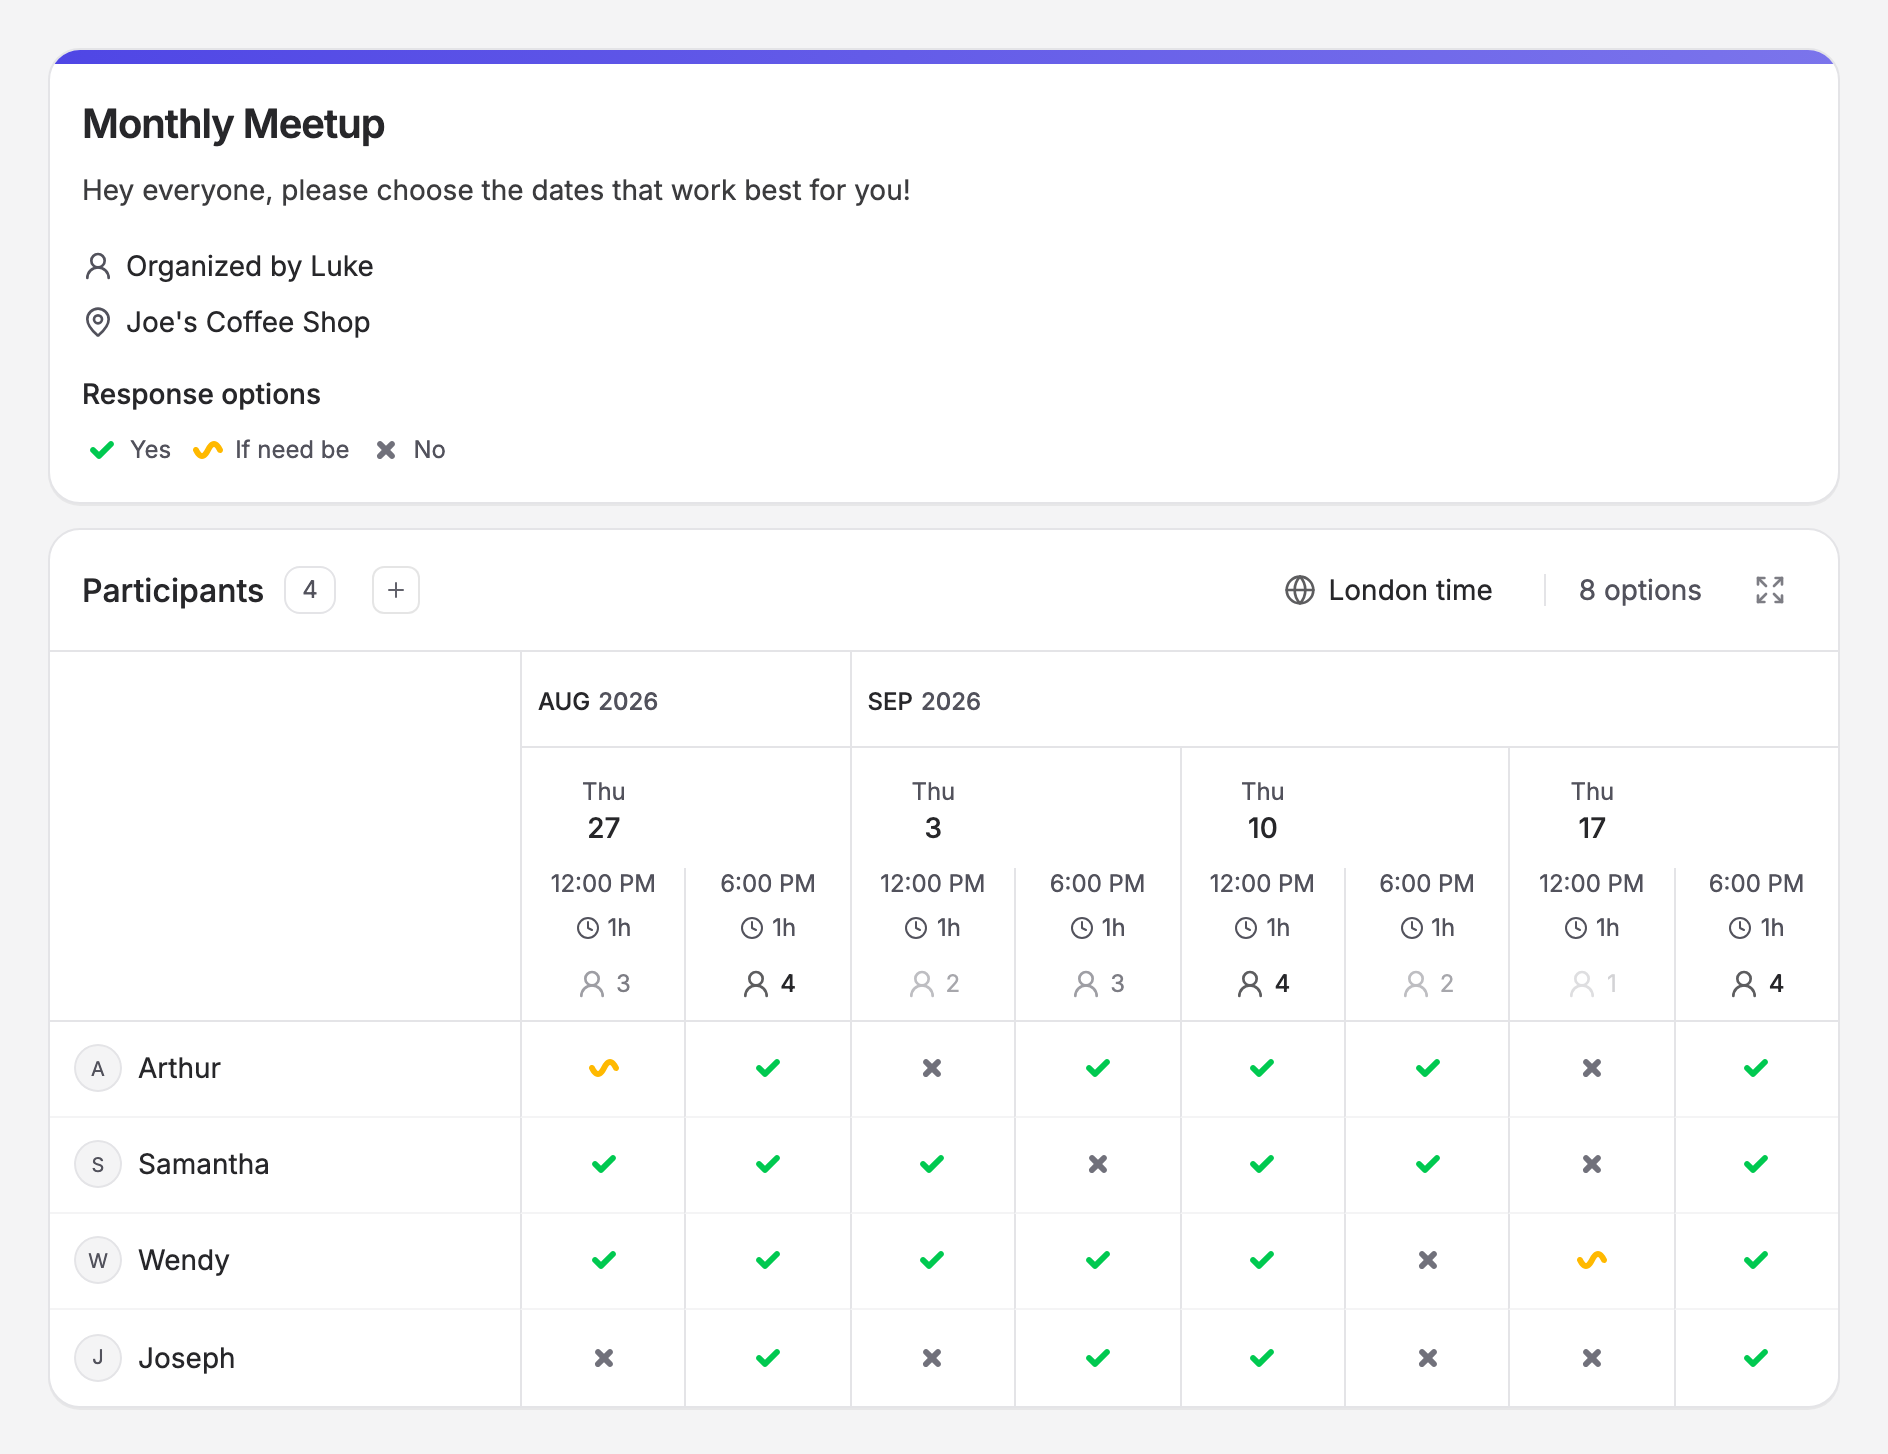
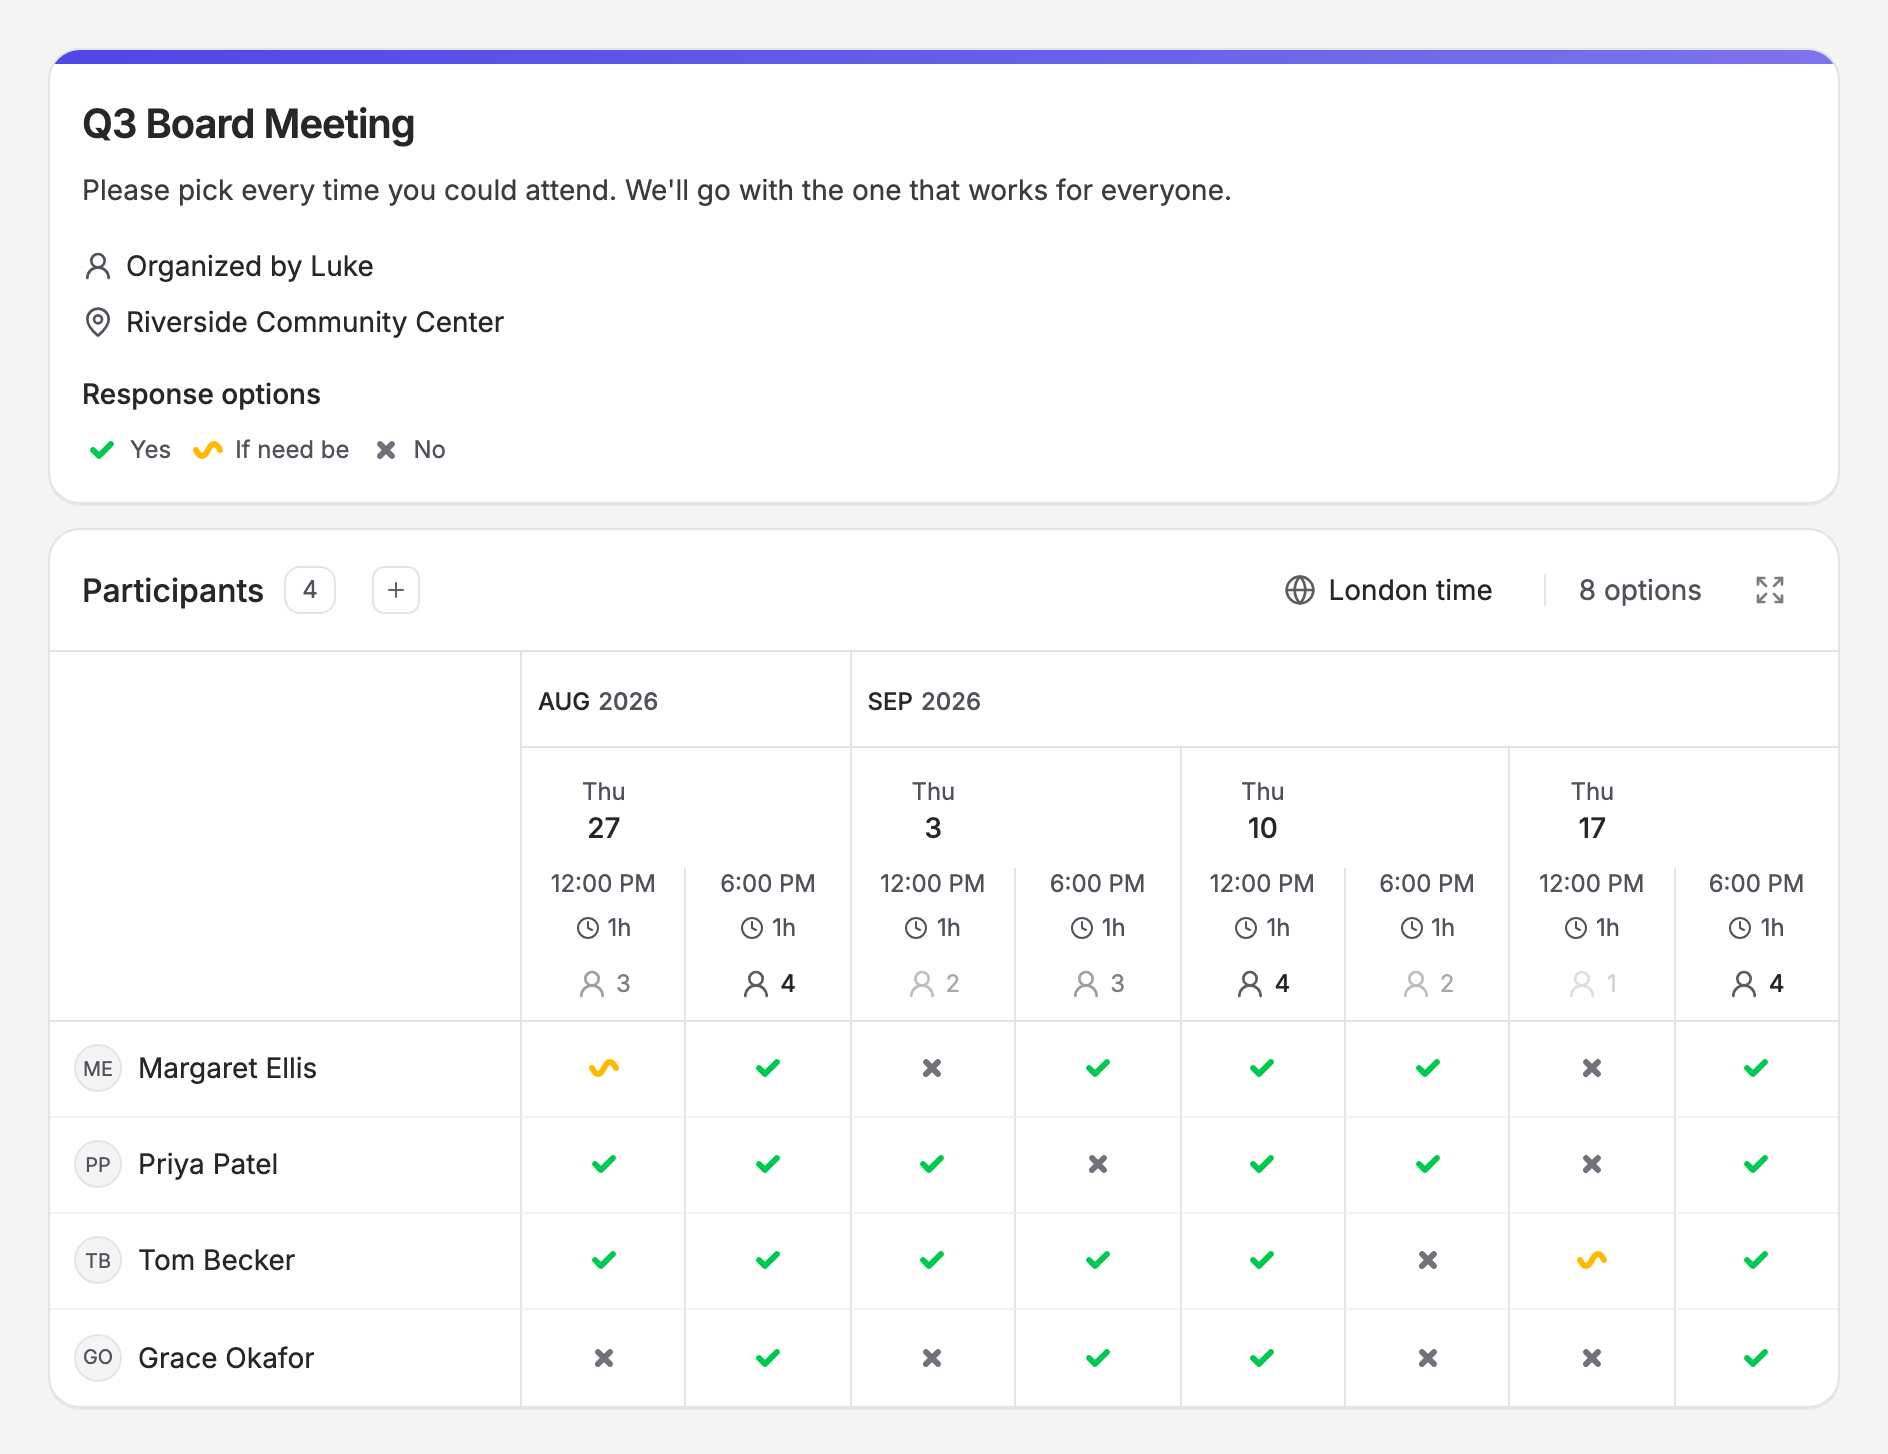
💄 Stage the hero demo poll as a board meeting
Monthly Meetup read as casual social scheduling; the paying segment
is institutional recurring scheduling. Q3 Board Meeting with full
participant names and an institutional venue shows target customers
their own meeting.

diff --git a/apps/web/scripts/capture-hero-shot.ts b/apps/web/scripts/capture-hero-shot.ts
@@ -30,19 +30,19 @@ type VoteType = "yes" | "ifNeedBe" | "no";
 
 const participants: { name: string; votes: VoteType[] }[] = [
   {
-    name: "Arthur",
+    name: "Margaret Ellis",
     votes: ["ifNeedBe", "yes", "no", "yes", "yes", "yes", "no", "yes"],
   },
   {
-    name: "Samantha",
+    name: "Priya Patel",
     votes: ["yes", "yes", "yes", "no", "yes", "yes", "no", "yes"],
   },
   {
-    name: "Wendy",
+    name: "Tom Becker",
     votes: ["yes", "yes", "yes", "yes", "yes", "no", "ifNeedBe", "yes"],
   },
   {
-    name: "Joseph",
+    name: "Grace Okafor",
     votes: ["no", "yes", "no", "yes", "yes", "no", "no", "yes"],
   },
 ];
@@ -127,10 +127,10 @@ async function seed() {
   await prisma.poll.create({
     data: {
       id: POLL_ID,
-      title: "Monthly Meetup",
+      title: "Q3 Board Meeting",
       description:
-        "Hey everyone, please choose the dates that work best for you!",
-      location: "Joe's Coffee Shop",
+        "Please pick every time you could attend. We'll go with the one that works for everyone.",
+      location: "Riverside Community Center",
       status: "open",
       kind: "time",
       timeZone: TIME_ZONE,
@@ -181,8 +181,8 @@ async function seed() {
   await prisma.comment.create({
     data: {
       pollId: POLL_ID,
-      authorName: "Samantha",
-      content: "Looking forward to see you all!",
+      authorName: "Margaret Ellis",
+      content: "Looking forward to seeing everyone there!",
       createdAt: new Date(Date.now() - DAY_MS),
     },
   });
@@ -221,7 +221,7 @@ async function captureDesktop(browser: Browser) {
   await page.goto(`${BASE_URL}/invite/${POLL_ID}`, {
     waitUntil: "networkidle",
   });
-  await page.getByText("Wendy").waitFor();
+  await page.getByText("Tom Becker").waitFor();
   // Dismiss the voting form that opens for new visitors; the desktop shot
   // shows the poll at rest, not a half-completed response.
   await page.getByRole("button", { name: "Cancel" }).click();
